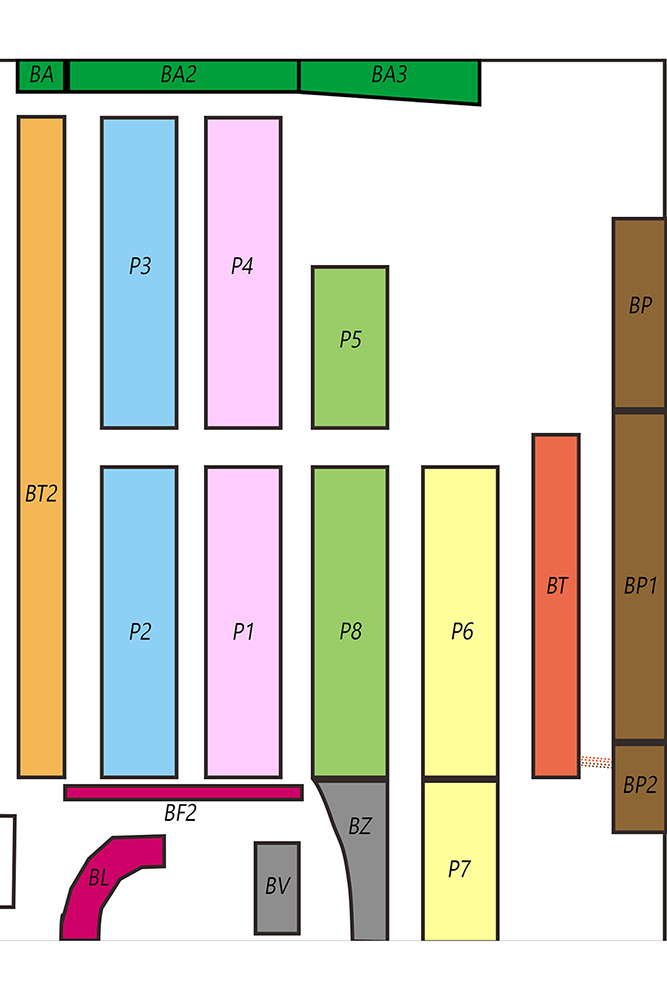
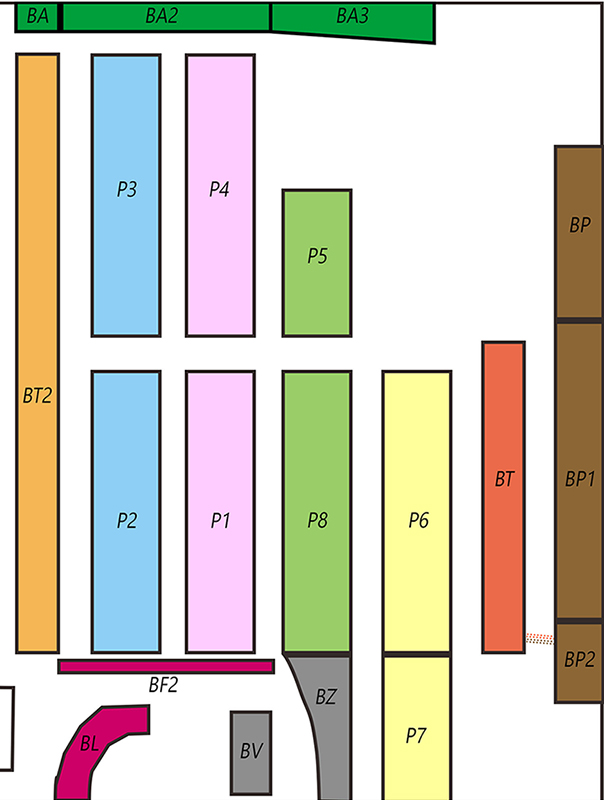
Add files via upload

diff --git a/index.html b/index.html
@@ -10,7 +10,7 @@
   <div class="contenedor">
     <div class="zoomable">
       <a href="pagina1.html" class="area" style="top: 100px; left: 100px; width: 120px; height: 100px;">1</a>
-      <a href="pagina2.html" class="area" style="top: 200px; left: 300px; width: 100px; height: 150px;">2</a>
+      <!--<a href="pagina2.html" class="area" style="top: 200px; left: 300px; width: 100px; height: 150px;">2</a>
       <a href="pagina3.html" class="area" style="top: 150px; left: 600px; width: 180px; height: 80px;">3</a>
       <a href="pagina4.html" class="area" style="top: 100px; left: 900px; width: 130px; height: 110px;">4</a>
       <a href="pagina5.html" class="area" style="top: 400px; left: 100px; width: 160px; height: 90px;">5</a>
@@ -23,7 +23,7 @@
       <a href="pagina12.html" class="area" style="top: 900px; left: 300px; width: 140px; height: 80px;">12</a>
       <a href="pagina13.html" class="area" style="top: 950px; left: 600px; width: 100px; height: 100px;">13</a>
       <a href="pagina14.html" class="area" style="top: 850px; left: 900px; width: 150px; height: 60px;">14</a>
-      <a href="pagina15.html" class="area" style="top: 1050px; left: 1100px; width: 120px; height: 70px;">15</a>
+      <a href="pagina15.html" class="area" style="top: 1050px; left: 1100px; width: 120px; height: 70px;">15</a>-->
     </div>
   </div>
 </body>

diff --git a/styles.css b/styles.css
@@ -16,8 +16,8 @@ html, body {
 
 .zoomable {
   position: relative;
-  width: 667px;
-  height: 1000px;
+  width: 604px;
+  height: 800px;
   background-image: url('fondo.jpg');
   background-size: cover;
   background-position: center;
